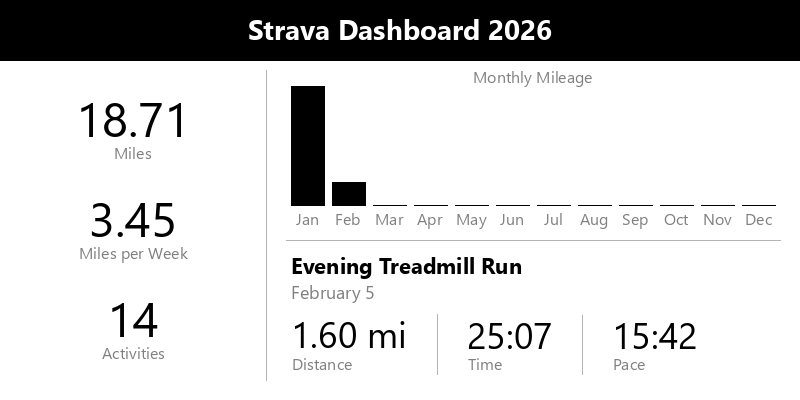
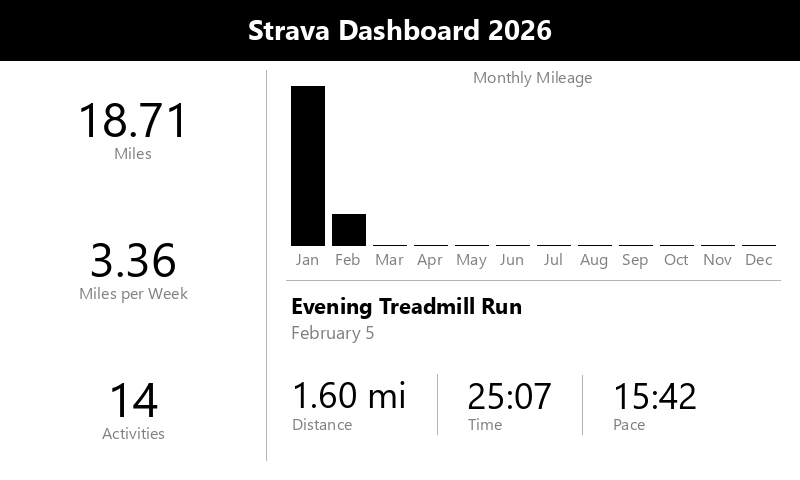
fix: use 480 height not 400

diff --git a/src/display.py b/src/display.py
@@ -4,7 +4,7 @@ def render(total_mileage, weekly_mileage, activities, mileage_per_month, latest_
     # =========================
     # Display configuration
     # =========================
-    WIDTH, HEIGHT = 800, 400
+    WIDTH, HEIGHT = 800, 480
     HEADER_HEIGHT = 60
     OUTPUT_FILE = "dashboard_preview.png"
 
@@ -43,7 +43,7 @@ def render(total_mileage, weekly_mileage, activities, mileage_per_month, latest_
     LEFT_COLUMN_WIDTH = WIDTH // 3
     COLUMN_CENTER_X = LEFT_COLUMN_WIDTH // 2
     START_Y = HEADER_HEIGHT + 25
-    METRIC_SPACING = 100
+    METRIC_SPACING = (HEIGHT - HEADER_HEIGHT) / 3
 
     # =========================
     # Helper: draw stacked metric
